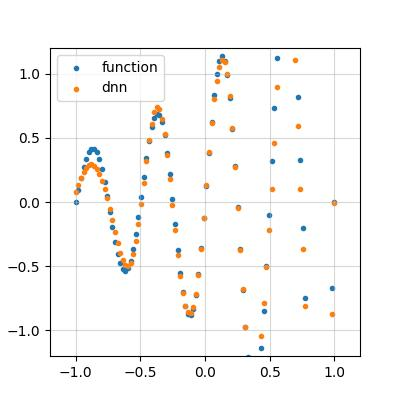
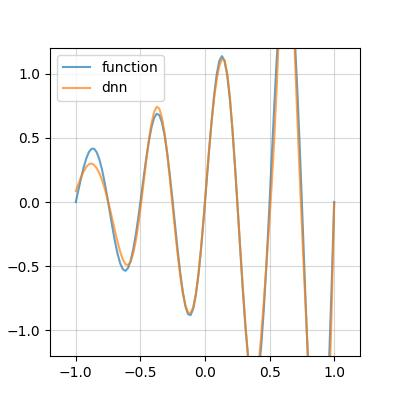
add code

diff --git a/00_tf2/main.py b/00_tf2/main.py
@@ -78,8 +78,8 @@ def main():
 
     # compare
     plt.figure(figsize=(4, 4))
-    plt.plot(x, y, marker="-", label="function", alpha=.7)
-    plt.plot(x_infer, y_infer, marker="--", label="dnn", alpha=.7)
+    plt.plot(x, y, label="function", alpha=.7, linestyle="-", c="k")
+    plt.plot(x_infer, y_infer, label="dnn", alpha=.7, linestyle="--", c="r")
     plt.xlim(-1.2, 1.2)
     plt.ylim(-1.2, 1.2)
     plt.grid(alpha=.5)
